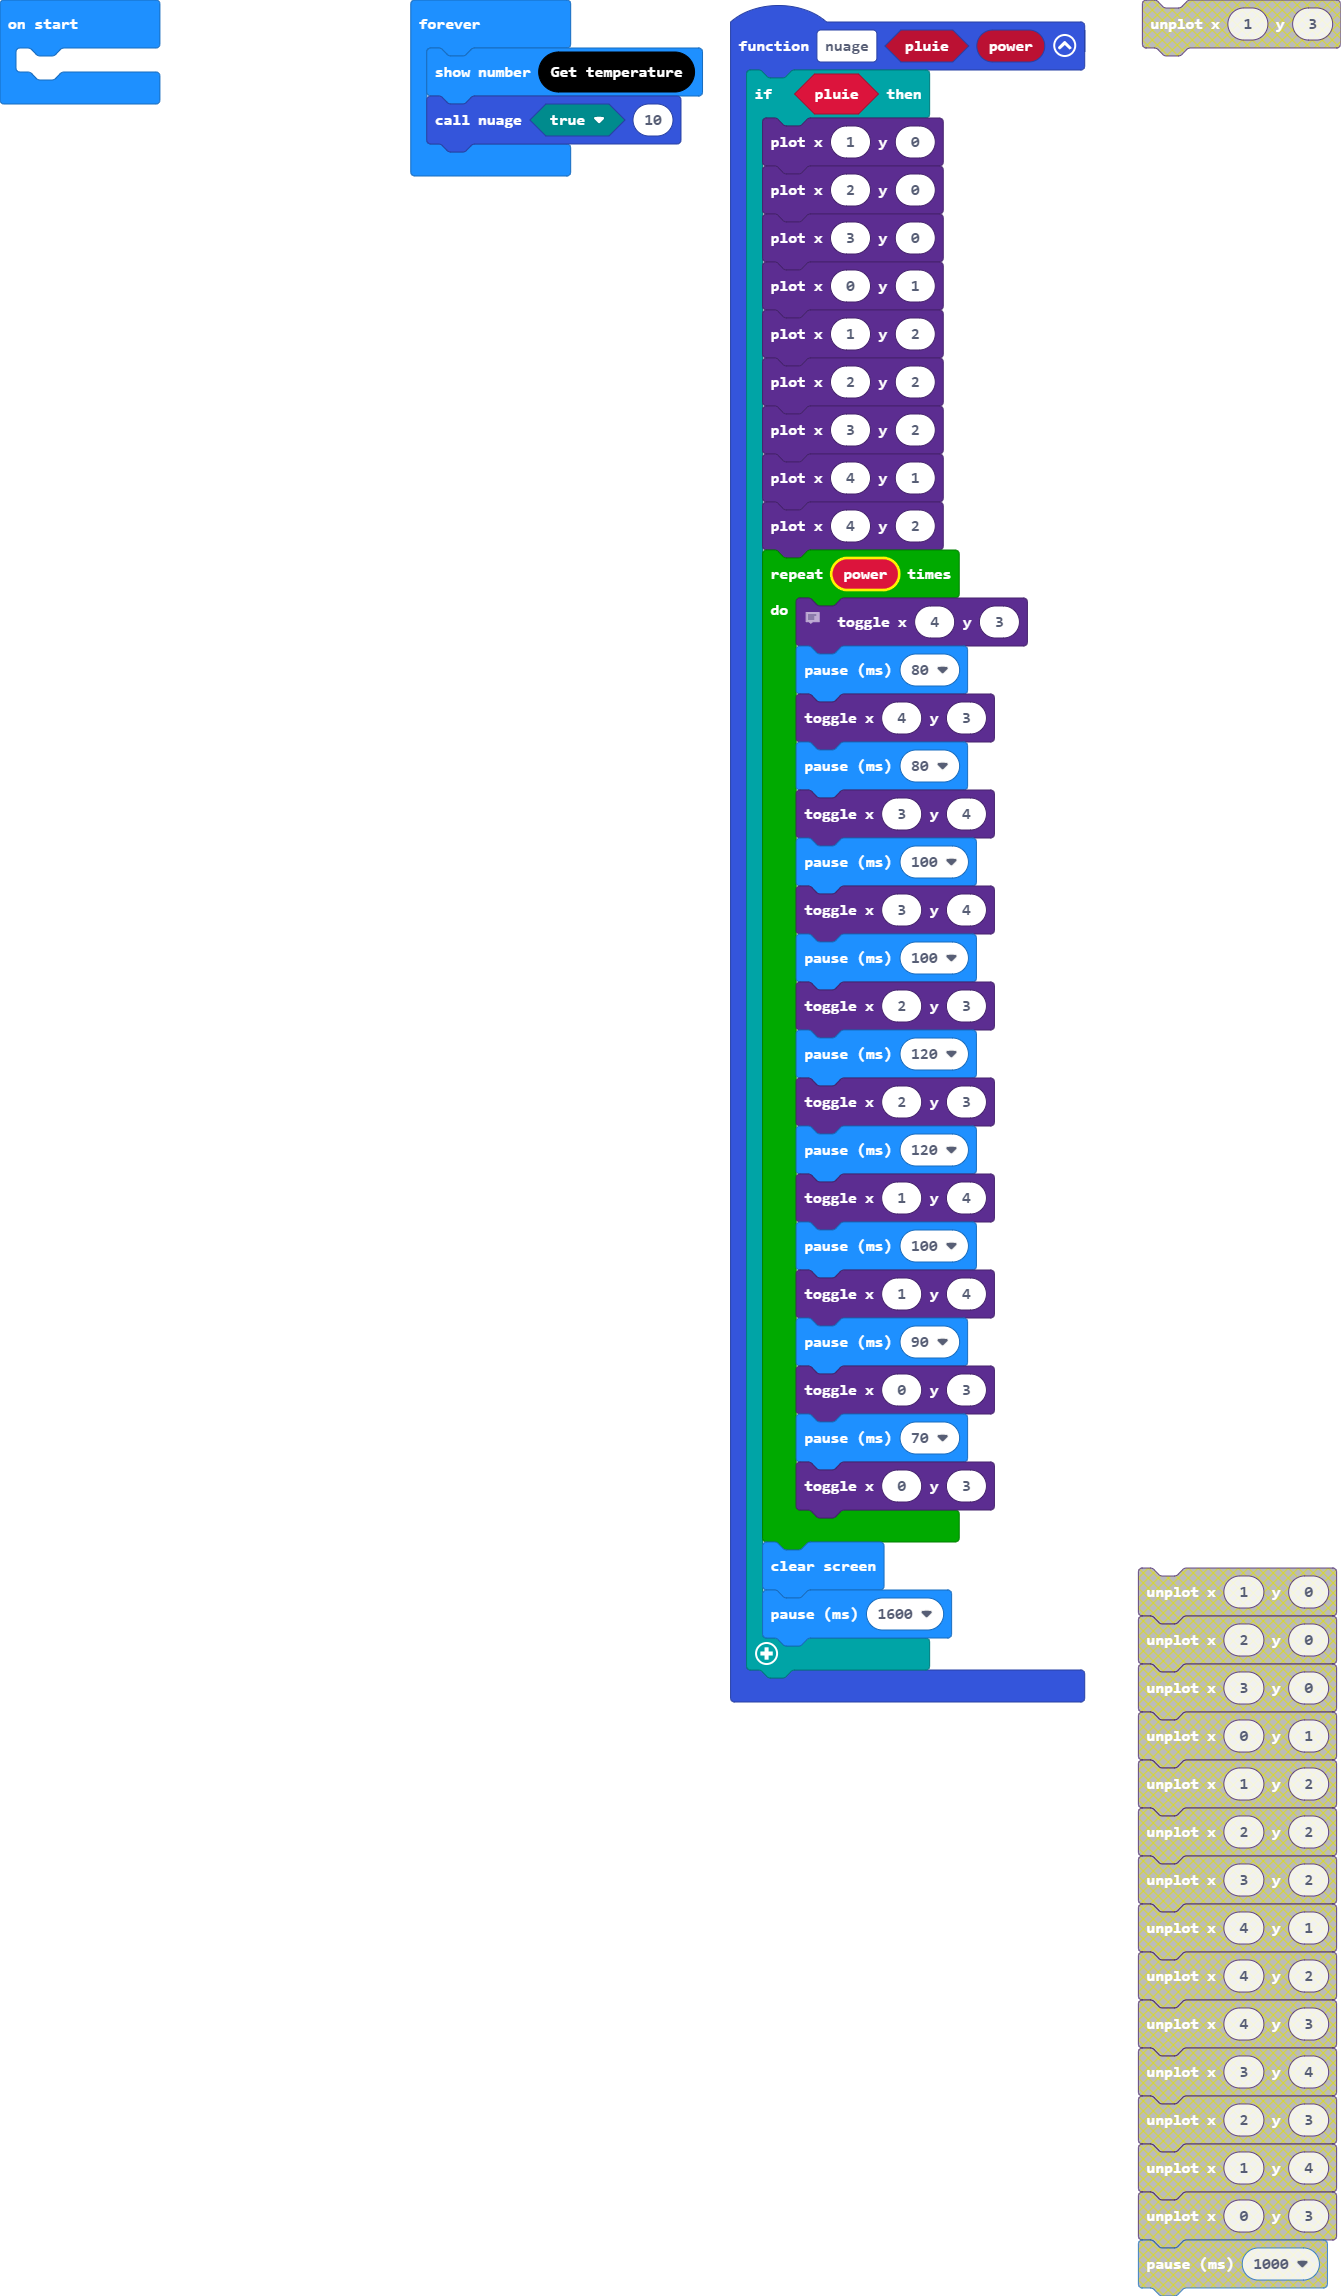
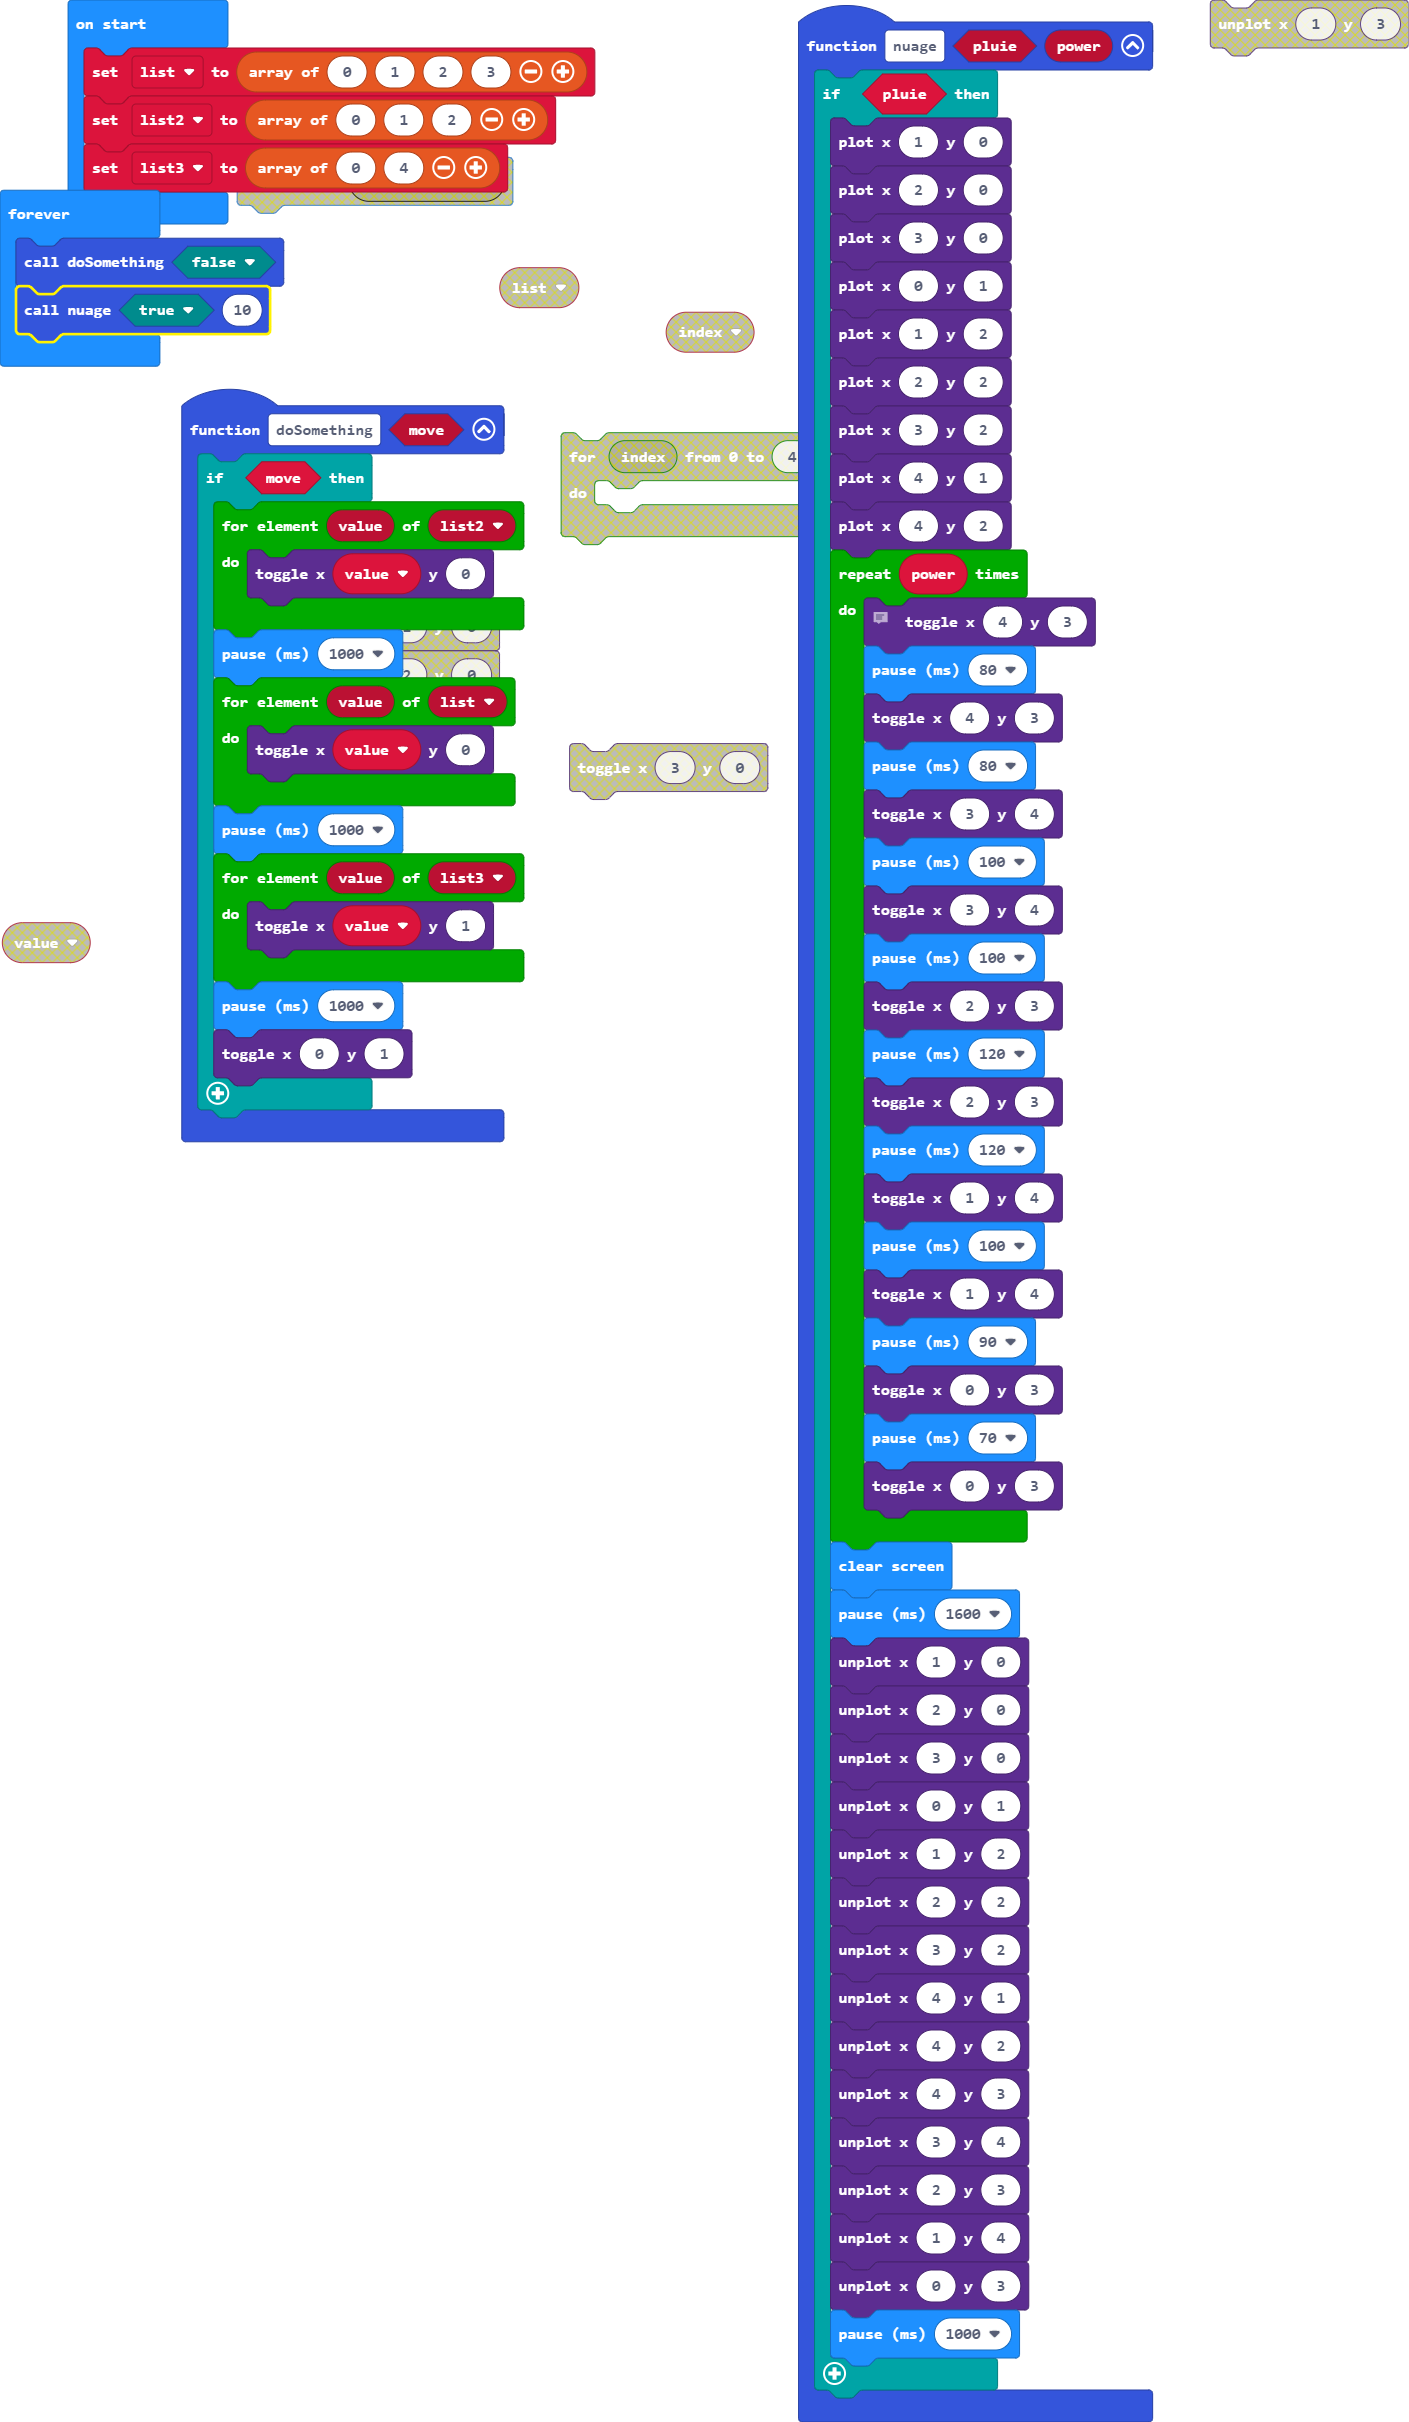
Update main.blocks, main.ts

diff --git a/main.ts b/main.ts
@@ -33,9 +33,65 @@ function nuage (pluie: boolean, power: number) {
         }
         basic.clearScreen()
         basic.pause(1600)
+        led.unplot(1, 0)
+        led.unplot(2, 0)
+        led.unplot(3, 0)
+        led.unplot(0, 1)
+        led.unplot(1, 2)
+        led.unplot(2, 2)
+        led.unplot(3, 2)
+        led.unplot(4, 1)
+        led.unplot(4, 2)
+        led.unplot(4, 3)
+        led.unplot(3, 4)
+        led.unplot(2, 3)
+        led.unplot(1, 4)
+        led.unplot(0, 3)
+        basic.pause(1000)
+        led.plot(0, 0)
+        led.plot(1, 0)
+        led.plot(2, 0)
+        led.unplot(3, 0)
+        led.unplot(4, 0)
+
+        //led.unplot(3, 1)
+        /*
+        led.plot(0, 1)
+        led.plot(1, 2)
+        
+        led.plot(0, 1)
+        led.plot(1, 2)
+
+        led.plot(2, 2)
+        led.plot(3, 2)
+        
+        led.plot(4, 2)*/
     }
 }
+function doSomething (move: boolean) {
+    if (move) {
+        for (let value of list2) {
+            led.toggle(value, 0)
+        }
+        basic.pause(1000)
+        for (let value of list) {
+            led.toggle(value, 0)
+        }
+        basic.pause(1000)
+        for (let value of list3) {
+            led.toggle(value, 1)
+        }
+        basic.pause(1000)
+        led.toggle(0, 1)
+    }
+}
+let list3: number[] = []
+let list2: number[] = []
+let list: number[] = []
+list = [0, 1, 2, 3]
+list2 = [0, 1, 2]
+list3 = [0, 4]
 basic.forever(function () {
-    basic.showNumber(envirobit.getTemperature())
+    doSomething(false)
     nuage(true, 10)
 })
